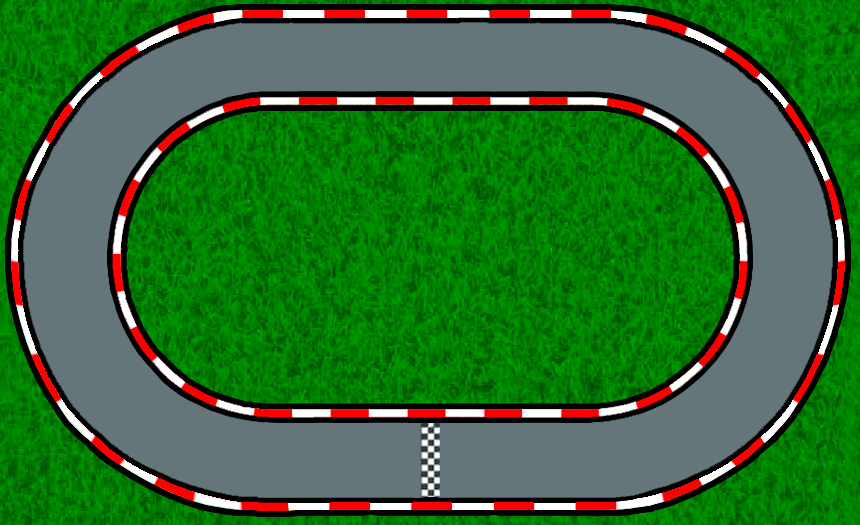
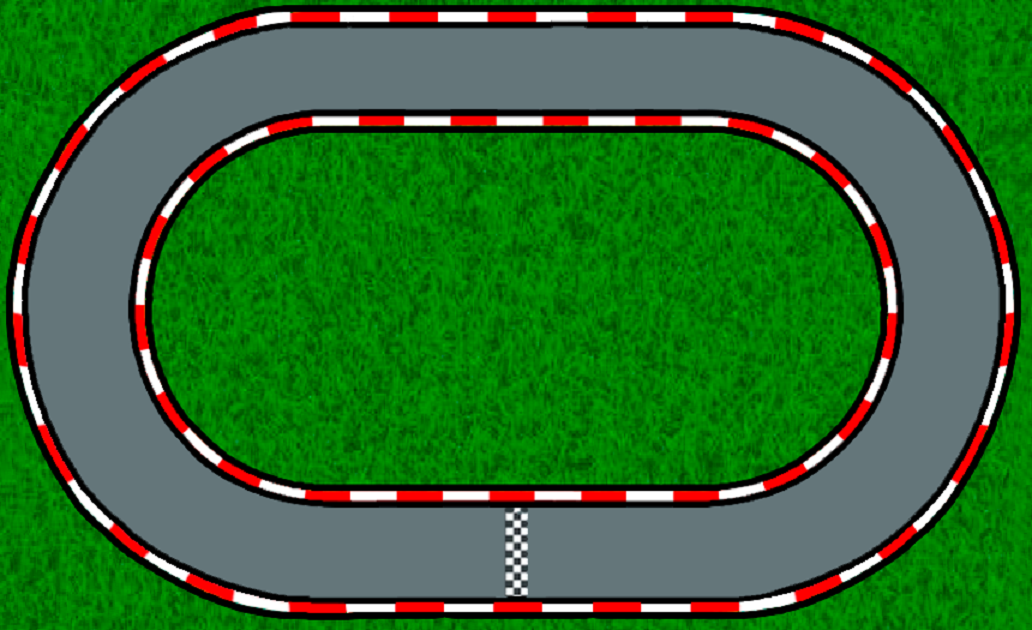
Added new tracks

diff --git a/car.py b/car.py
@@ -9,16 +9,29 @@ class Car(pygame.sprite.Sprite):
         self.height = self.window.get_height()
         self.original_car = car
         self.image = self.original_car
-        self.car_velocity = 3
+        self.car_velocity = 4
         self.car_downscaling = 0.025 #Downscaling factor to show the car on the track
         self.drive_state = False
-        
-        if track_number == 1: #Rotate the car according to track finish line orientation
-            self.rect = self.image.get_rect(center=(425, 460))
+
+        #Rotate and place the car according to track finish line orientation
+        if track_number == 1: 
+            self.rect = self.image.get_rect(center=(516, 553))
             self.velocity_vector = pygame.math.Vector2(0.7, 0) #x and y velocity
             self.steering_angle = 0
         elif track_number == 2:
             self.rect = self.image.get_rect(center=(195, 263))
+            self.velocity_vector = pygame.math.Vector2(0, -0.7) #x and y velocity
+            self.steering_angle = 90
+        elif track_number == 3:
+            self.rect = self.image.get_rect(center=(506,840))
+            self.velocity_vector = pygame.math.Vector2(0.7, 0) #x and y velocity
+            self.steering_angle = 0
+        elif track_number == 4:
+            self.rect = self.image.get_rect(center=(318, 81))
+            self.velocity_vector = pygame.math.Vector2(0.7, 0) #x and y velocity
+            self.steering_angle = 0
+        elif track_number == 5:
+            self.rect = self.image.get_rect(center=(78, 302))
             self.velocity_vector = pygame.math.Vector2(0, -0.7) #x and y velocity
             self.steering_angle = 90
 
@@ -80,7 +93,7 @@ class Car(pygame.sprite.Sprite):
         self.rect = self.image.get_rect(center=self.rect.center) #Update car rectangle center
 
     def radar(self, radar_angle):
-        #Get each radar measurements    
+        #Get each radar measurements with a simple ray-cast algorithm    
         lenght = 0 #Step to the object
         x = int(self.rect.center[0])
         y = int(self.rect.center[1])

diff --git a/main.py b/main.py
@@ -3,7 +3,7 @@
 #import math
 import pygame
 #import neat
-from utils import scale_image
+#from utils import scale_image
 from car import Car
 
 track_number = 1
